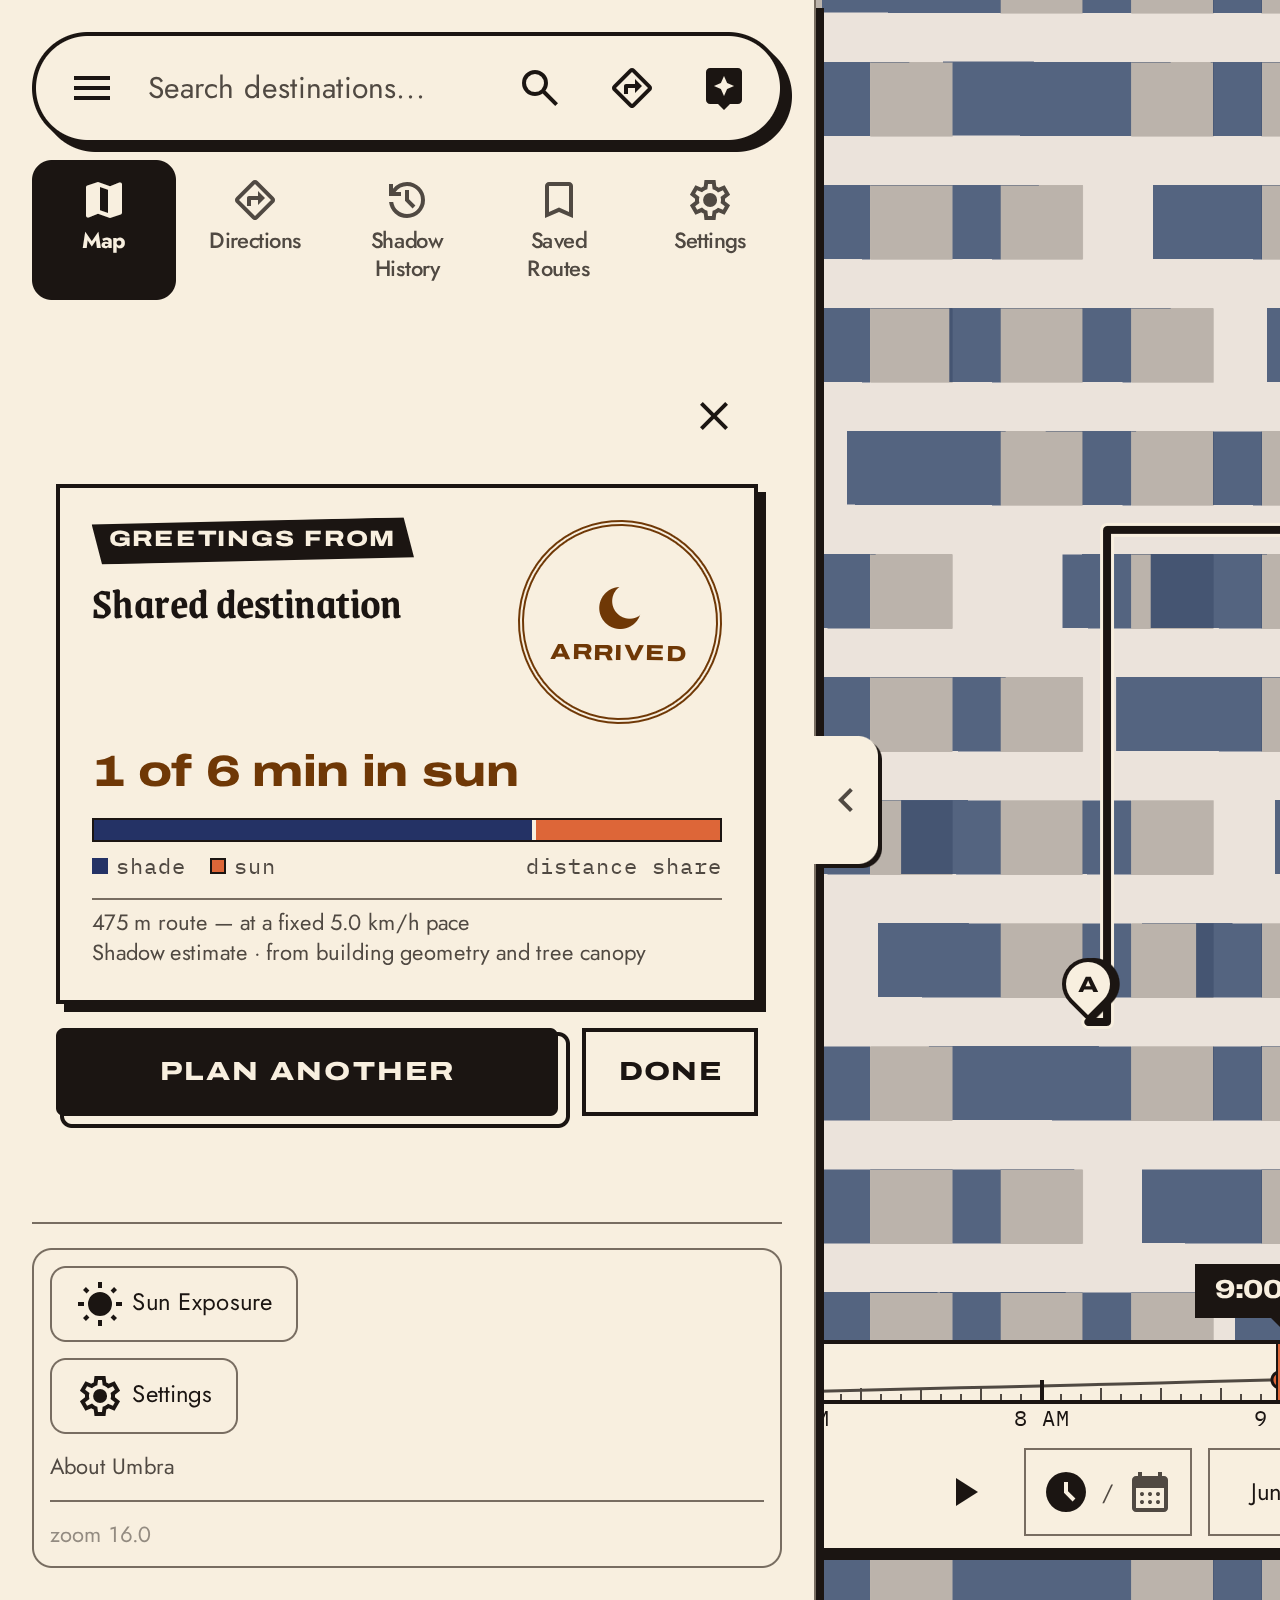
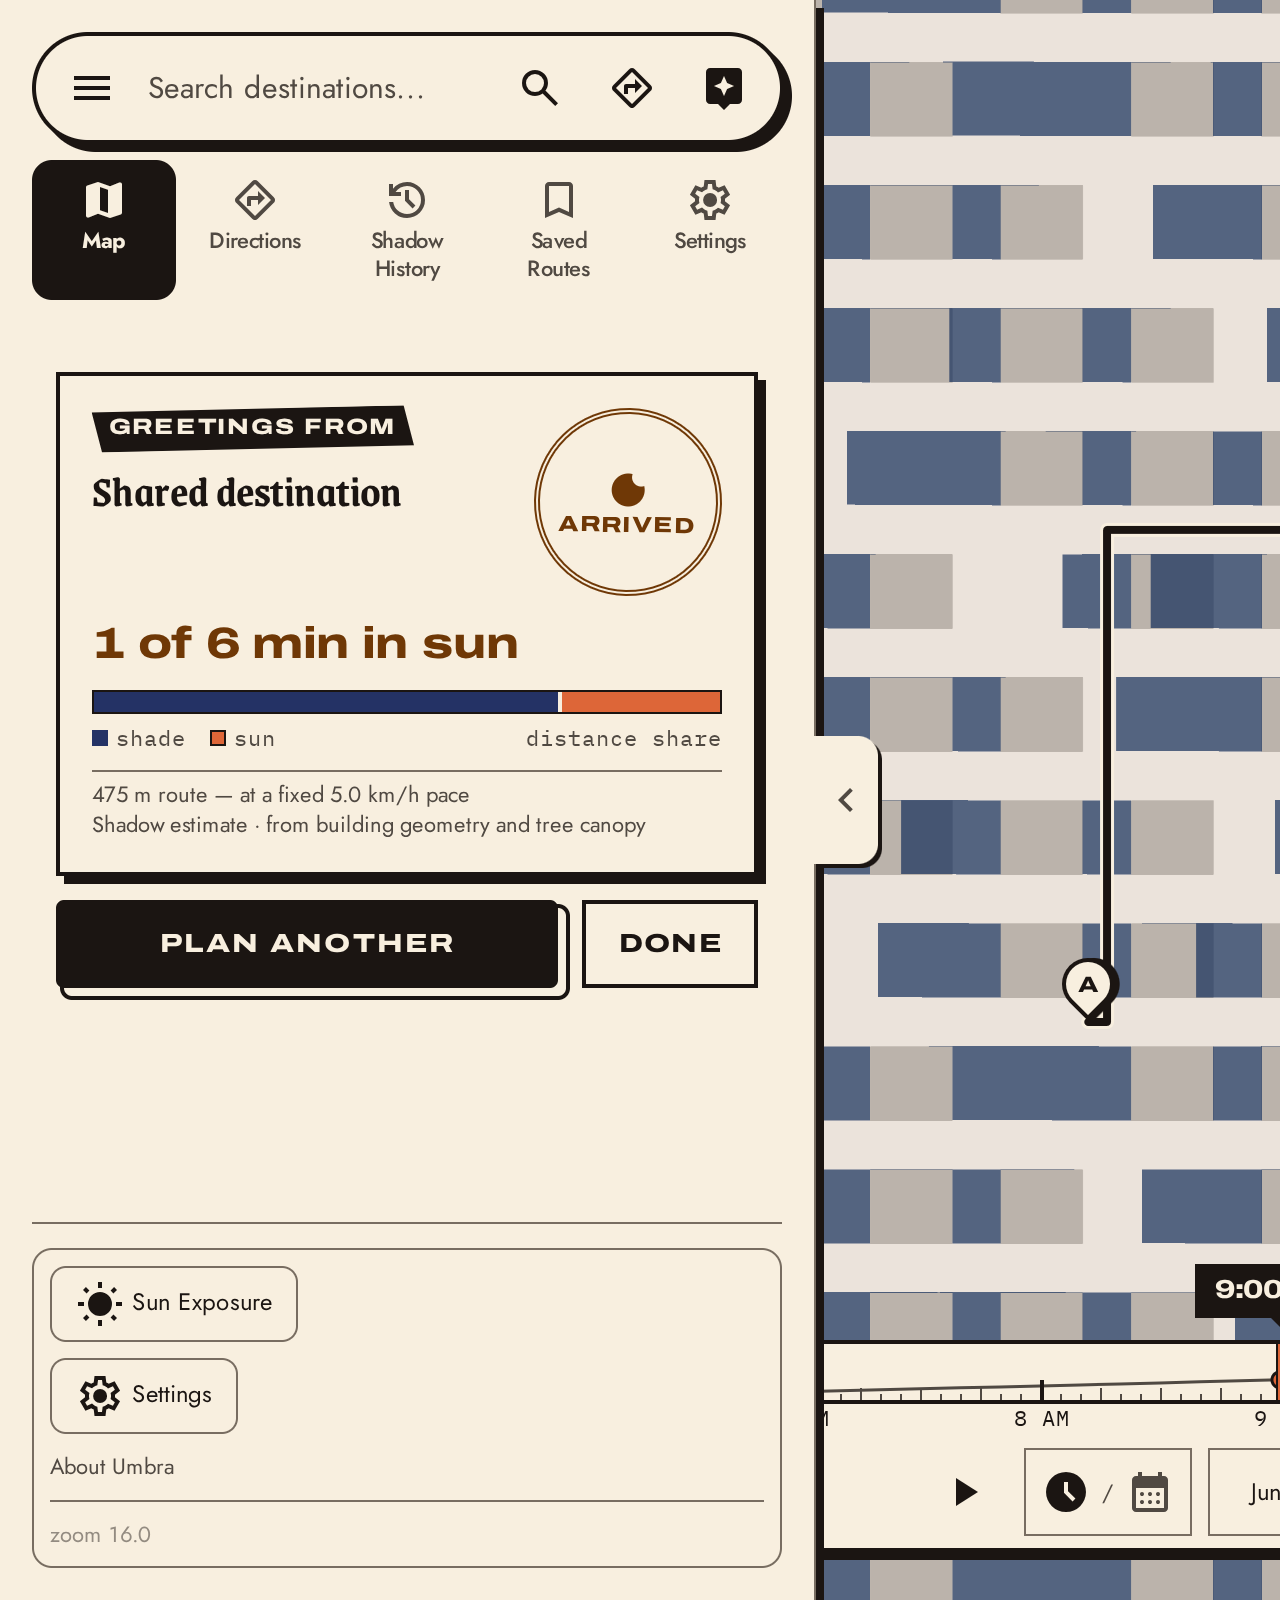
fix(design): R8a review fixes — fit the mid snap, exact bar share, ink stamp without sun
Drop the separate Close row (Done does the same) and shrink the stamp so
the actions fit the phone sheet's mid snap; the heading carries Arrived
at for screen readers and the stamp is decorative, orange only beside a
sun figure. The split bar uses the exact shade ratio, a recomputing rain
card says updating shelter, and Done's focus ring clears its border.
Records R8a in the Track R brief.

Refs #191

Changed region(s): [[0.0312, 0.2188, 0.625, 0.7188]]

diff --git a/app/components/ArrivalPanel.tsx b/app/components/ArrivalPanel.tsx
@@ -38,7 +38,7 @@ export default function ArrivalPanel({
   const afterSunset = !!route && !rainMode && routeAfterSunset(route);
   // Where the shadow (or shelter) figure came from, as the route card states it.
   // Absent on sketch and transit routes, which were not sampled per sidewalk.
-  const sourceLine = route && !afterSunset
+  const sourceLine = route && !afterSunset && !(rainMode && route.exposureUpdating)
     ? (() => {
         const source = rainMode ? route.shelterSource : route.shadowSource;
         return source ? describeShadowProvenance(source) : null;
@@ -60,6 +60,7 @@ export default function ArrivalPanel({
             (route.exposure?.unknownDistanceM ?? 0) > 0 || (route.exposure?.unknownDurationSec ?? 0) > 0;
           // The headline above already states the shelter figure; the caption
           // keeps only what the headline leaves out (U5: no number twice).
+          if (route.exposureUpdating) return `${formatDistance(route.distanceM)} route — updating shelter…`;
           const shelterText =
             unknown ? "with shelter partly unknown" : shelter == null ? "with shelter unknown" : "";
           return `${formatDistance(route.distanceM)} route${shelterText ? ` ${shelterText}` : ""}`;
@@ -109,23 +110,19 @@ export default function ArrivalPanel({
           exposure.sunMinutes < 1
             ? "under a minute in sun"
             : `${Math.round(exposure.sunMinutes)} of ${total} min in sun`;
-        return { headline: sun, pct: Math.round((exposure.shadowMinutes / total) * 100) };
+        // The bar takes the exact ratio: a rounded minute total skews a short
+        // walk's share by up to half (a 120 m walk read 43% for its 30%).
+        return {
+          headline: sun,
+          pct: Math.round((exposure.shadowMinutes / (exposure.sunMinutes + exposure.shadowMinutes)) * 100),
+        };
       })()
     : null;
 
+  const sunVerdict = !rainMode && shadeStory?.pct != null;
+
   return (
     <div className="flex flex-col gap-3 p-3">
-      <button
-        type="button"
-        onClick={onDone}
-        className="flex h-11 w-11 items-center justify-center self-end focus-visible:outline-2 focus-visible:-outline-offset-2 focus-visible:outline-current"
-        style={{ color: "var(--color-ink)" }}
-        title="Close"
-        aria-label="Close"
-      >
-        <span className="material-symbols-outlined text-xl" aria-hidden="true">close</span>
-      </button>
-
       {/* Arrival as a postcard (R8a): the greeting on a kicker plate, the place
           as its title, the umbra disc as the postmark, then the trip's one
           sun-time verdict told once in square numbers with the split bar the
@@ -139,7 +136,7 @@ export default function ArrivalPanel({
           <div className="flex min-w-0 flex-1 flex-col items-start gap-2">
             <Kicker plated>Greetings from</Kicker>
             <h2 id={`${biteId}-title`} className="font-display text-verdict font-semibold leading-tight">
-              {destination}
+              <span className="sr-only">Arrived at</span> {destination}
             </h2>
             {coordinates && (
               <div className="font-mono text-[11px] tabular-nums" style={{ color: "var(--color-ink-muted)" }}>
@@ -148,13 +145,15 @@ export default function ArrivalPanel({
             )}
           </div>
           {/* The umbra disc — a sun with its own shadow's bite — postmarks the card. */}
-          <StampBadge tone="sun" className="shrink-0">
+          {/* Orange only beside a sun figure: the disc is the sun, not decoration.
+              The heading already says Arrived to a screen reader. */}
+          <StampBadge tone={sunVerdict ? "sun" : "ink"} className="shrink-0" aria-hidden="true">
             {/* Side padding widens the ring so the word sits inside it below centre. */}
-            <span className="flex flex-col items-center gap-0.5 px-2">
-              <svg viewBox="0 0 24 24" width="28" height="28" aria-hidden="true">
+            <span className="flex flex-col items-center px-1">
+              <svg viewBox="0 0 24 24" width="22" height="22" aria-hidden="true">
                 <mask id={biteId}>
                   <rect width="24" height="24" fill="white" />
-                  <circle cx="16" cy="9" r="7.5" fill="black" />
+                  <circle cx="19" cy="5" r="5" fill="black" />
                 </mask>
                 <circle cx="12" cy="12" r="9" fill="currentColor" mask={`url(#${biteId})`} />
               </svg>
@@ -227,7 +226,7 @@ export default function ArrivalPanel({
         <button
           type="button"
           onClick={onDone}
-          className="min-h-11 border-2 border-ink px-4 font-extrabold uppercase tracking-wider focus-visible:outline-2 focus-visible:-outline-offset-2 focus-visible:outline-current"
+          className="min-h-11 border-2 border-ink px-4 font-extrabold uppercase tracking-wider focus-visible:outline-2 focus-visible:outline-offset-2 focus-visible:outline-current"
           style={{ fontFamily: "var(--font-label)", fontSize: "var(--text-small)", color: "var(--color-ink)" }}
         >
           Done

diff --git a/app/components/__tests__/ArrivalPanel.test.tsx b/app/components/__tests__/ArrivalPanel.test.tsx
@@ -52,9 +52,10 @@ describe("ArrivalPanel as a postcard (R8a)", () => {
     arrive(walk(500, 0.6));
 
     expect(screen.getByText("Greetings from").className).toContain("umbra-kicker");
-    expect(screen.getByRole("heading", { name: "Bryant Park" }).className).toContain("font-display");
-    expect(screen.getByRole("article", { name: "Bryant Park" })).toBeTruthy();
-    expect(screen.getByText("Arrived").closest(".umbra-stamp-badge--sun")).not.toBeNull();
+    // The stamp is decorative; the heading says Arrived to a screen reader.
+    expect(screen.getByRole("heading", { name: "Arrived at Bryant Park" }).className).toContain("font-display");
+    expect(screen.getByRole("article", { name: "Arrived at Bryant Park" })).toBeTruthy();
+    expect(screen.getByText("Arrived").closest(".umbra-stamp-badge--sun")?.getAttribute("aria-hidden")).toBe("true");
   });
 
   it("tells the sun time once, with the split bar's basis and the fixed pace", () => {
@@ -63,6 +64,16 @@ describe("ArrivalPanel as a postcard (R8a)", () => {
     expect(screen.getByText(/^\d+ of 6 min in sun$/)).toBeTruthy();
     expect(screen.getByText("distance share")).toBeTruthy();
     expect(screen.getByText("500 m route — at a fixed 5.0 km/h pace")).toBeTruthy();
+  });
+
+  it("fills the bar with the exact share, not one skewed by a rounded minute total", () => {
+    // 1.00 min sun + 0.43 min shade: the total rounds to 1, which drew a 43% bar.
+    const { container } = render(
+      <ArrivalPanel route={walk(120, 0.3)} waypointBLabel="Bryant Park" waypointB={null} onPlanAnother={() => {}} onDone={() => {}} />,
+    );
+
+    const fill = container.querySelector<HTMLElement>("[aria-hidden='true'].border-ink > div");
+    expect(fill?.style.width).toBe("30%");
   });
 
   it("names where the shadow figure came from when the route recorded it", () => {
@@ -86,6 +97,8 @@ describe("ArrivalPanel as a postcard (R8a)", () => {
     expect(screen.queryByText(/min in sun/)).toBeNull();
     expect(screen.queryByText("distance share")).toBeNull();
     expect(screen.getByText(/no sun minutes: the sun was down at the route's time/)).toBeTruthy();
+    // No sun figure, so the postmark is ink, not the sun's orange.
+    expect(screen.getByText("Arrived").closest(".umbra-stamp-badge--sun")).toBeNull();
   });
 
   it("draws no bar and invents no sun minutes when the exposure is unknown", () => {
@@ -109,20 +122,29 @@ describe("ArrivalPanel as a postcard (R8a)", () => {
     expect(screen.queryByText(/min in sun/)).toBeNull();
   });
 
+  it("says shelter is updating, with no stale figure or source, while it recomputes", () => {
+    const route: RouteOption = { ...walk(500, 0), objective: "rain", dryCoverage: 0.42, exposureUpdating: true };
+    route.shelterSource = { bySource: { tiles: 1 }, dominant: "tiles", sampledFraction: 1, minConfidence: 1, meanConfidence: 1 };
+    arrive(route, { rainMode: true });
+
+    expect(screen.getByText("500 m route — updating shelter…")).toBeTruthy();
+    expect(screen.queryByText(/sheltered/)).toBeNull();
+    expect(screen.queryByText(/Shelter estimate/)).toBeNull();
+  });
+
   it("keeps an unnamed destination's coordinates out of the display face", () => {
     arrive(walk(500, 0.6), { waypointBLabel: null });
 
-    expect(screen.getByRole("heading", { name: "Your destination" })).toBeTruthy();
+    expect(screen.getByRole("heading", { name: "Arrived at Your destination" })).toBeTruthy();
     expect(screen.getByText("40.75360, -73.98320").className).toContain("tabular-nums");
   });
 
-  it("plans another trip or closes", () => {
+  it("plans another trip or is done", () => {
     const props = arrive(walk(500, 0.6));
 
     fireEvent.click(screen.getByRole("button", { name: "PLAN ANOTHER" }));
     expect(props.onPlanAnother).toHaveBeenCalledTimes(1);
     fireEvent.click(screen.getByRole("button", { name: "Done" }));
-    fireEvent.click(screen.getByRole("button", { name: "Close" }));
-    expect(props.onDone).toHaveBeenCalledTimes(2);
+    expect(props.onDone).toHaveBeenCalledTimes(1);
   });
 });

diff --git a/docs/tracks/TRACK_R.md b/docs/tracks/TRACK_R.md
@@ -24,13 +24,24 @@ inspiration; the public mirror publishes everything here.
 
 ## Current state
 
-- **Active checkpoint:** R7c (#174, PR #182), AssistantPanel as a numbered day-trip leaflet,
-  stacked on R7b (PR #180). Verified place receipts receive the current map pin's
-  number only while that pin is plotted; its 44px number focuses the exact map
-  object. Ruled receipt lines preserve the source, age and confidence caption.
-  The square 2px panel has an ink header band, square user turns and input, and
-  44px reset, close, suggestion and send controls. Shots: `docs/design/shots/r7c/`.
-- **R7b (open, #180):** PlaceDetail as a guidebook entry, stacked on R7a
+- **Active checkpoint:** R8a (#191), the first slice of R8, split into R8a arrival
+  postcard (#191), R8b saved-route ticket stubs (#189) and R8c empty states and voice
+  pass (#190). `ArrivalPanel` is a square 2px ink postcard with the hard shadow: a
+  "Greetings from" kicker plate over the destination as a Grenze `h2` (screen readers
+  hear "Arrived at <place>"; an unnamed pin is "Your destination" with its coordinates
+  as a mono caption, never in the display face), an "Arrived" `StampBadge` postmark
+  carrying a first umbra disc (a sun with its shadow's bite; orange only beside a sun
+  figure, ink otherwise; decorative), then the one sun-time verdict in the sun text role
+  with the route card's square split bar, key and basis. The caption adds "Shadow (or
+  Shelter) estimate · <source>" from `describeShadowProvenance`. After sunset at the
+  route's own time (`routeAfterSunset`) it says "After sunset" with no bar and "no sun
+  minutes", where `main` said "under a minute in sun" over a shade bar. The bar now uses
+  the exact ratio (a rounded minute total drew a 43% bar for a 120 m walk's 30%), and a
+  recomputing rain card says "updating shelter…" with no stale source. The separate
+  Close row is gone (Done does the same), so the buttons fit the sheet's mid snap at
+  390×844. Shots: `docs/design/shots/r8a/`.
+- **R7 (merged):** R7a (#176), R7b (#180), R7c (#182) and R7d (#183).
+- **R7b (merged, #180):** PlaceDetail as a guidebook entry, stacked on R7a
   (PR #176). The entry is an `article`: a 44px Back row, the category on a tilted ink
   `Kicker` plate (fallback "Place"), the name as an `h2` in Grenze, then the square
   Directions start button directly under it (inside the first snap point), then a `dl`
@@ -45,7 +56,7 @@ inspiration; the public mirror publishes everything here.
   (`handleSearchSelect`), so the fuller lines render only in tests; #178 carries the
   search row's hours, rating and photo through. Shots: `docs/design/shots/r7b/`
   (forced UI theme, because picking a place resets the time to now).
-- **R7a (open, #176):** the first slice of R7 (search, place detail,
+- **R7a (merged, #176):** the first slice of R7 (search, place detail,
   assistant), split into R7a search (#172), R7b PlaceDetail (#173) and R7c assistant
   leaflet (#174). The search pill is one solid panel pill with a 2px ink rule and the hard
   offset shadow (no blur or translucency); while its field has focus a solid panel band and an ink ring wrap it (owner request: no map showing through); each icon in it
@@ -144,7 +155,7 @@ inspiration; the public mirror publishes everything here.
   request): start pin, round dots on foot through each walk step, the line's bullet heading
   a solid bar in its colour that ends in a ring at the exit stop, dots on to the destination
   pin; the ride step names its wait so steps sum to Time.
-- **Done:** R0 (#120), R1 (#122), R2 (#127), R3 (#132), R4a (#139), R4b (#141), R5a (#148),
+- **Done:** R7a–R7d (#176, #180, #182, #183), R0 (#120), R1 (#122), R2 (#127), R3 (#132), R4a (#139), R4b (#141), R5a (#148),
   R5b (#152), the transfer itinerary (#158), R6a (#164) and R6b (#170) merged.
   R5a is the first consumer of R3's primitives: the option on a `Kicker plated`, `Tag` for
   Recommended (shade, or rain on rain cards; never orange), `LineBullet` per transit leg, and
@@ -180,7 +191,7 @@ inspiration; the public mirror publishes everything here.
   (`app/components/mapPins.ts`, 44px square host, letter or number always shown); a
   reticle user dot; orange only on the sun diagram's daylight marks. No overlay colour is
   blue-dominant, so a drawn route no longer reads as shade (the old `#1d6ee0` did).
-- **Open PRs:** R7c #182 (base R7b), R7b #180 (base R7a), R7a #176; #179 fixes #171 and is included in the R7a branch, but remains open and unmerged. R7b follow-ups: #177 (typeahead re-opens after a pick), #178 (place entry drops the row's hours/rating/photo; Directory distances freeze while panning), #181 (selected place pin and sheet offset, photo sizing, website scheme, shot coverage). R7a follow-up: #175 (row alignment, hours truncation, hover, focus vs highlight, grouping). R6b follow-ups: #165 (design:check red on main: issue refs read as colours, three arbitrary offsets), #166 (Track D: night hours count as most shadowed), #167 (Track E: night Pareto detours), #168 (pill tiers stale after a time change), #169 (board column width, placement, desktop keys). R6a follow-up still open: #163 (ruler keyboard access). Older follow-ups: #140 (Track G: unit flakes under load); #124, #125, #126 (R2);
+- **Open PRs:** R8a (see #191). R8a follow-ups: #192 (rain transit sheltered share is walk-only, unstated), #193 (arrival not announced; bar basis hidden from screen readers). R7b follow-ups: #177 (typeahead re-opens after a pick), #178 (place entry drops the row's hours/rating/photo; Directory distances freeze while panning), #181 (selected place pin and sheet offset, photo sizing, website scheme, shot coverage). R7a follow-up: #175 (row alignment, hours truncation, hover, focus vs highlight, grouping). R6b follow-ups: #165 (design:check red on main: issue refs read as colours, three arbitrary offsets), #166 (Track D: night hours count as most shadowed), #167 (Track E: night Pareto detours), #168 (pill tiers stale after a time change), #169 (board column width, placement, desktop keys). R6a follow-up still open: #163 (ruler keyboard access). Older follow-ups: #140 (Track G: unit flakes under load); #124, #125, #126 (R2);
   #130 (R3); #137 (labels in shade ~2:1), #138 (R6 sheet edge); #147 (night wording left in
   SolarPill, leg rows, route labels); #150 (waypoint × under 44px), #151 (segmented as radio); #154 (Track G: refresh timer after jsdom teardown); filed elsewhere from R5a: #144, #145 (E), #146 (A).
 - **Decisions made:** D1–D5 in `docs/design/decision.md` are owner-approved and
@@ -193,7 +204,13 @@ inspiration; the public mirror publishes everything here.
   start action is a square ink button with the hard shadow, not a clipped plate (D4); transit
   bullets keep each line's published colour (N yellow, L grey) so cards match the map.
   Still open from R4b: hollow A/filled B swap at night; the opaque night route covers labels.
-- **Next action:** owner review of R7a #176, R7b #180 and R7c #182 in stack order. #126 keeps its SettingsPanel/SaveRouteModal half.
+- **Next action:** owner review of R8a, then R8b (#189). #126 keeps its SettingsPanel/SaveRouteModal half.
+- **Last verified (R8a):** 2026-10-01 on Node 24; lint (0 errors, 79 baseline warnings),
+  typecheck, 1,849 unit tests, build and e2e 12/12 (no MapTiler key, so smoke-live did
+  not run). design:check reports the 9 findings already on main (#165), none new.
+  `interface-reviewer` and `grounding-auditor` findings fixed or filed (#192, #193);
+  day, night and after-sunset 390×844 and desktop before/after shots on the fixture
+  basemap. A real-phone look in sun is outstanding.
 - **Last verified (R7c):** 2026-10-01 on Node 24; lint (0 errors, 79 baseline warnings),
   typecheck, 1,834 unit tests, build and e2e 11/11. design:check reports the 9
   findings already on main (#165), none new. The `interface-reviewer`,
